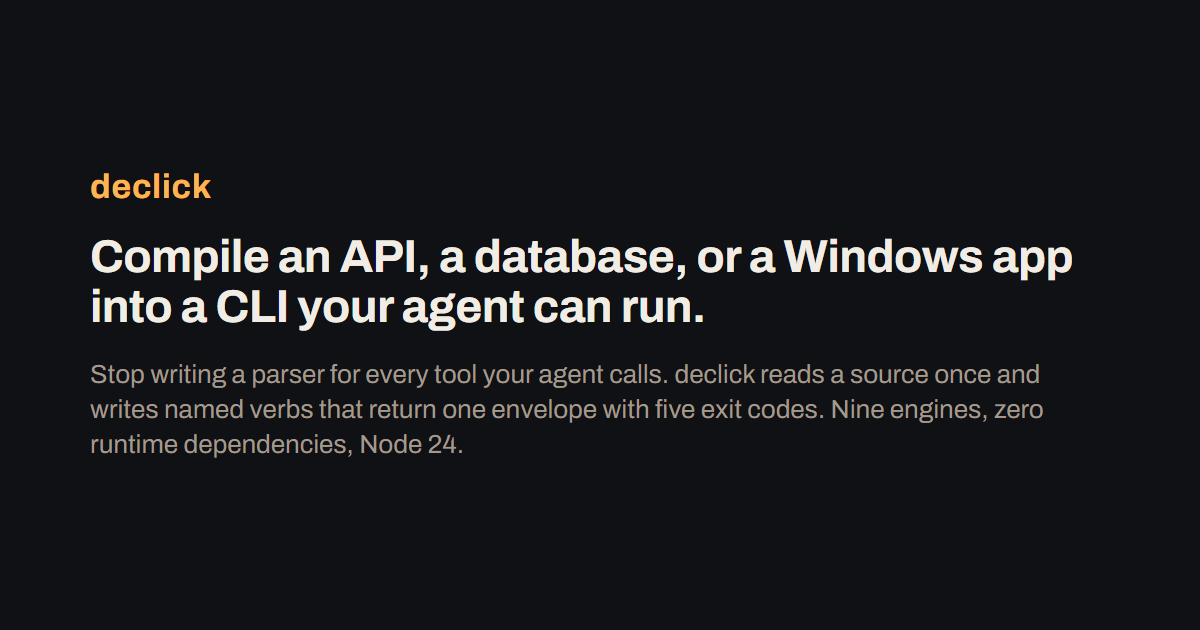
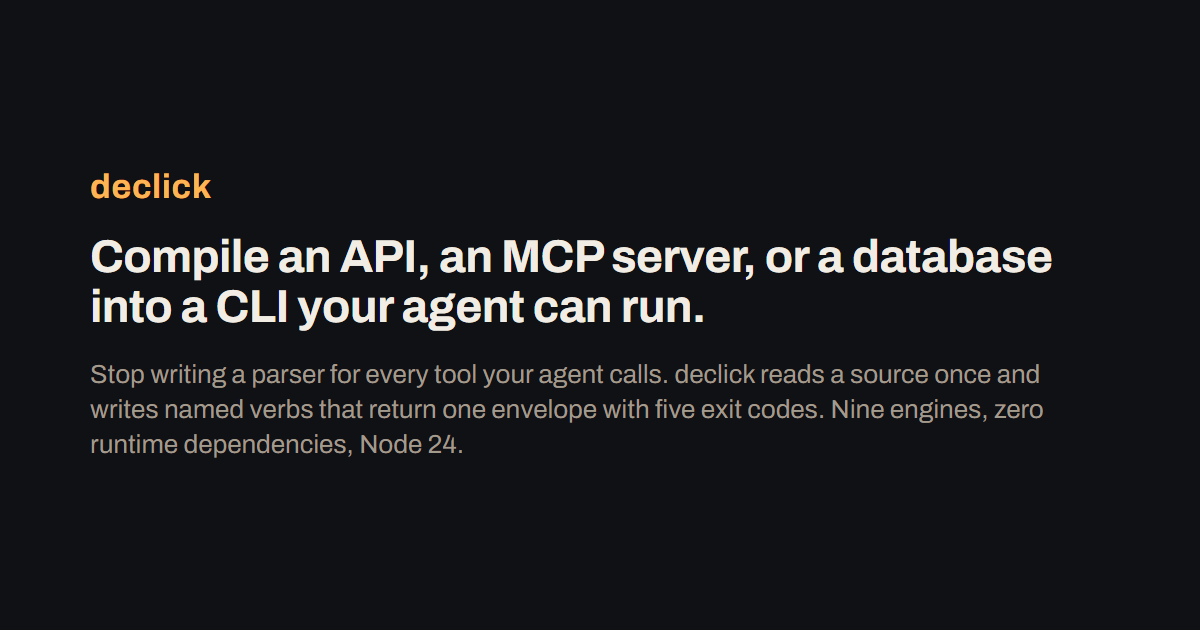
declick: [CHORE] Show HN readiness: keyless quickstart call, Compared with section, README demo GIF, site headline leads with MCP, real-call figure on the site
Claude-Session: https://claude.ai/code/session_01ToUTEoUmBwSntKgLTbVcsu

Changed region(s): [[0.37, 0.3619, 0.8942, 0.4524]]

diff --git a/site/index.html b/site/index.html
@@ -13,13 +13,13 @@
 <meta name="msvalidate.01" content="82A613A745B0EECA836924ADEDD06006">
 <meta property="og:type" content="website">
 <meta property="og:url" content="https://declick.dev/">
-<meta property="og:title" content="Compile an API, a database, or a Windows app into a CLI your agent can run.">
+<meta property="og:title" content="Compile an API, an MCP server, or a database into a CLI your agent can run.">
 <meta property="og:description" content="Compile an OpenAPI spec, GraphQL API, MCP server, database, browser page, or Windows app into a CLI. One output contract, five exit codes. Node 24.">
 <meta property="og:image" content="https://declick.dev/og.png">
 <meta property="og:image:width" content="1200">
 <meta property="og:image:height" content="630">
 <meta name="twitter:card" content="summary_large_image">
-<meta name="twitter:title" content="Compile an API, a database, or a Windows app into a CLI your agent can run.">
+<meta name="twitter:title" content="Compile an API, an MCP server, or a database into a CLI your agent can run.">
 <meta name="twitter:description" content="Compile an OpenAPI spec, GraphQL API, MCP server, database, browser page, or Windows app into a CLI. One output contract, five exit codes. Node 24.">
 <meta name="twitter:image" content="https://declick.dev/og.png">
 <link rel="preload" as="font" type="font/woff2" href="/fonts/archivo-var.woff2" crossorigin>
@@ -48,7 +48,7 @@
 <div class="wrap">
 
 <section class="sec sec--hero">
-<h1>Compile an API, a database, or a Windows app into a CLI your agent can run.</h1>
+<h1>Compile an API, an MCP server, or a database into a CLI your agent can run.</h1>
 <div class="pane">
 <div>
 <p class="lead prose">Stop writing a parser for every tool your agent calls. declick reads a source once and writes named verbs that return one envelope with five exit codes. Nine engines, zero runtime dependencies, Node 24.</p>
@@ -600,6 +600,13 @@ run: petstore &lt;verb&gt; [args] [--flags]   or: declick run petstore &lt;verb&
   update-pet                    Update an existing pet. [mutating]
   add-pet                       Add a new pet to the store. [mutating]</span></code></pre>
 <figcaption><span class="cap">The first four lines of the describe output; the full 19-verb block is at the top of this page.</span><span class="chip">exit 0</span></figcaption>
+</figure>
+<figure class="block">
+<pre tabindex="0" role="group" aria-label="Output of petstore get-user-by-name user1 with two fields, then petstore get-pet-by-id 7 without a key"><code><span class="cmd"><span class="sig">$</span> petstore get-user-by-name user1 --fields username,email</span>
+<span class="out">{"ok":true,"data":{"username":"user1","email":"email1@test.com"},"meta":{"count":1,"truncated":false,"status":200,"governance":{"enabled":false,"decision":"skipped","reason":"read-only verb"}}}</span>
+<span class="cmd"><span class="sig">$</span> petstore get-pet-by-id 7</span>
+<span class="out">error: set PETSTORE_API_KEY or PETSTORE_PETSTORE_AUTH in the environment or ~/.creds/vault.env (or run: creds mint petstore)</span></code></pre>
+<figcaption><span class="cap">A real call against the live petstore, then a verb whose spec declares an API key: exit 4 names the key instead of sending the request without it.</span><span class="chip">exit 0</span><span class="chip">exit 4</span></figcaption>
 </figure>
 </div>
 </div>

diff --git a/site/og.html b/site/og.html
@@ -3,4 +3,4 @@
 @font-face{font-family:'Archivo';font-style:normal;font-weight:100 900;font-stretch:100%;font-display:swap;src:url('fonts/archivo-var.woff2') format('woff2')}
 html,body{margin:0}body{width:1200px;height:630px;background:#0f1115;color:#f2ede4;font-family:'Archivo','Segoe UI',system-ui,sans-serif;display:flex;flex-direction:column;justify-content:center;padding:0 90px;box-sizing:border-box}
 .name{color:#ffb454;font-size:34px;font-weight:700;letter-spacing:.02em;margin-bottom:28px}h1{font-size:46px;line-height:1.08;margin:0 0 24px;letter-spacing:-.01em;font-weight:700}p{font-size:26px;line-height:1.35;color:#a29a8c;margin:0;max-width:1020px;font-weight:400}
-</style></head><body><div class="name">declick</div><h1>Compile an API, a database, or a Windows app into a CLI your agent can run.</h1><p>Stop writing a parser for every tool your agent calls. declick reads a source once and writes named verbs that return one envelope with five exit codes. Nine engines, zero runtime dependencies, Node 24.</p></body></html>
+</style></head><body><div class="name">declick</div><h1>Compile an API, an MCP server, or a database into a CLI your agent can run.</h1><p>Stop writing a parser for every tool your agent calls. declick reads a source once and writes named verbs that return one envelope with five exit codes. Nine engines, zero runtime dependencies, Node 24.</p></body></html>

diff --git a/README.md b/README.md
@@ -2,6 +2,8 @@
 
 Stop writing a parser for every tool your agent calls. declick reads a source once and writes named verbs that return one envelope with five exit codes. Nine engines, zero runtime dependencies, Node 24.
 
+![declick compiling the petstore spec, describing it, making a real call, and naming the missing key on exit 4](docs/demo.gif)
+
 ## Why
 
 Every time an agent reads a screenshot or a DOM to find a button, it pays in tokens and latency, and it pays again in the next session because nothing was learned. declick compiles the surface once and replays it deterministically forever: a spec, an app window, or a server becomes a set of named verbs with stable output. The point is not the conversion, it is that every generated CLI honors the same output contract no matter which engine produced it, and that declick itself honors it too, so an agent never has to leave the shell.
@@ -28,12 +30,24 @@ Requires Node 24 or newer.
 npm i -g declick
 declick add https://petstore3.swagger.io/api/v3/openapi.json --name petstore
 declick run petstore describe
+declick run petstore get-user-by-name user1 --fields username,email
 declick run petstore get-pet-by-id 7 --dry-run
 ```
+
+The fourth line is a real call: petstore's user endpoints declare no auth, so the envelope comes back with the row. `get-pet-by-id` declares an API key in the spec, so without `PETSTORE_API_KEY` set it exits 4 and names the key; `--dry-run` shows the request it would send instead.
 
 `declick add` writes three things: `~/.declick/petstore/manifest.json` (the compiled surface), `~/.declick/bin/petstore.cmd` plus a bash twin (a two line launcher), and `~/.claude/skills/petstore/SKILL.md` so agents discover it without being told. It also writes `~/.claude/skills/declick/SKILL.md`, declick's own skill, so an agent that finds one adapter knows how to build the next.
 
 `declick run <name> <verb>` works everywhere with no setup. Once `~/.declick/bin` is on PATH (`declick path --install` does it for new shells, `declick doctor` tells you whether it is), the short form `petstore get-pet-by-id 7` works too. Both forms have identical output and exit codes.
+
+## Compared with
+
+- **Runtime REST clients such as restish** are built for a person at a keyboard: shorthand syntax, colored output, one API configured at a time. declick is built for a program: one envelope, five exit codes, a `describe` an agent can afford to read, and the same shape for a database or a window as for an API.
+- **SDK generators such as openapi-generator and Speakeasy** produce a typed client library per language. The CLI on top, the output shaping and the exit codes are still yours to write. declick skips the library and writes the CLI.
+- **MCP** gives an agent tools over a protocol, which needs an MCP client in the loop. The mcp engine compiles a server into shell verbs, so an agent with only a shell uses it, and `--fields` and `--limit` cut the result before it reaches the context window.
+- **Screenshot and DOM agents** find the button again every session and pay tokens each time. The web and desktop engines record the path once and replay it, and a miss returns the elements that are there, not a screenshot.
+
+The part none of those share is that all nine engines, and declick itself, honor the same contract, so an agent learns the output shape once.
 
 ## The output contract
 

diff --git a/docs/DESIGN.md b/docs/DESIGN.md
@@ -120,6 +120,8 @@ The hero numbers (19 verbs, 1,583 characters) come from a third-party live spec 
 
 After the terminal blocks are recaptured, rebuild og.png: render site/og.html with a headless Chromium at 1200x630, device scale 1, and overwrite site/og.png. The fonts are self-hosted now, so launch that browser with --allow-file-access-from-files, or the woff2 is blocked as a cross-origin fetch and the image renders in the fallback face with nothing logged. See Self-hosted fonts above. Confirm the file is under 300 KB, that the h1 still fits on two lines at its set size, and that CSS.getPlatformFontsForNode reports Archivo on the h1 before you keep the PNG.
 
+The install section's second figure shows `petstore get-user-by-name user1 --fields username,email` (a real call, exit 0, petstore's user endpoints declare no auth) followed by `petstore get-pet-by-id 7 --json false` (exit 4, the spec declares an API key). Recapture both with the same env prefix, and replace the vault path in the exit 4 line with `~/.creds/vault.env`. docs/demo.gif is the README demo. It is built from the same captures by the script in the session scratchpad, and it gets re-made with the same five commands whenever the describe output or the envelope shape changes.
+
 ## Analytics and Search Console
 
 The page ships one script: Vercel Web Analytics, loaded deferred from /_vercel/insights/script.js on the same origin (no cookies, no third-party host). It is the only JavaScript on the site and nothing on the page depends on it; with JS disabled the page is unchanged. Enabled in the Vercel project on 2026-09-03. Google Search Console verifies https://declick.dev/ through the google-site-verification meta tag in the head of index.html; removing that tag revokes the verification. Bing Webmaster Tools verifies through the msvalidate.01 meta tag next to it (the code is account-wide and public by design); the launch CLI submitted the sitemap and home URL to Bing on 2026-09-03 and records that in the gitignored .launch/ledger.json.
